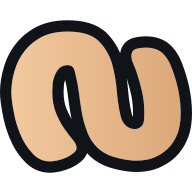
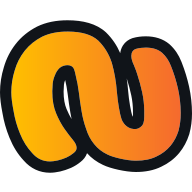
fix: refinements

diff --git a/src/styles/tokens/semantic.css b/src/styles/tokens/semantic.css
@@ -7,23 +7,23 @@
   --color-surface-1: light-dark(var(--p-neutral-1), var(--p-neutral-4));
   --color-surface-2: light-dark(var(--p-neutral-2), var(--p-neutral-3));
 
-  --color-accent: light-dark(var(--p-orange-1), var(--p-orange-0));
-  --color-link: light-dark(var(--p-green-2), var(--p-green-1));
+  --color-accent: light-dark(var(--p-orange-2), var(--p-yellow-0));
+  --color-link: light-dark(var(--p-orange-2), var(--p-orange-1));
   --color-title: var(--color-text-0);
-  --color-heading: var(--p-orange-0);
-  --color-button: light-dark(var(--p-orange-1), var(--p-orange-0));
-  --color-glyph: light-dark(var(--p-green-2), var(--p-orange-0));
+  --color-heading: var(--p-yellow-0);
+  --color-button: light-dark(var(--p-orange-2), var(--p-orange-1));
+  --color-glyph: light-dark(var(--p-orange-2), var(--p-yellow-0));
   --color-interactive: var(--color-glyph);
   --color-divider: var(--color-surface-2);
-  --color-canvas: light-dark(var(--p-green-2), var(--p-orange-0));
+  --color-canvas: light-dark(var(--p-orange-2), var(--p-yellow-0));
   --color-glow: hsl(from var(--color-accent) h s l / var(--opacity-background-glow));
 
-  --color-code-inline: light-dark(var(--p-orange-2), var(--p-orange-0));
+  --color-code-inline: light-dark(var(--p-orange-2), var(--p-yellow-0));
   --color-code-default: var(--p-neutral-0);
   --color-code-muted: var(--p-neutral-2);
-  --color-code-primary: var(--p-orange-0);
+  --color-code-primary: var(--p-yellow-0);
   --color-code-secondary: var(--p-green-0);
-  --color-code-tertiary: var(--p-yellow-0);
+  --color-code-tertiary: var(--p-orange-0);
   --color-code-bg: var(--p-neutral-4);
 
   /** FONT-FAMILIES */

diff --git a/src/styles/tokens/primitives.css b/src/styles/tokens/primitives.css
@@ -1,20 +1,20 @@
 :root {
   /** NEUTRAL */
-  --p-neutral-0: hsl(215, 24%, 98%);
-  --p-neutral-1: hsl(215, 24%, 92%);
-  --p-neutral-2: hsl(215, 18%, 78%);
-  --p-neutral-3: hsl(215, 18%, 36%);
-  --p-neutral-4: hsl(215, 18%, 22%);
-  --p-neutral-5: hsl(215, 18%, 8%);
+  --p-neutral-0: hsl(40, 14%, 98%);
+  --p-neutral-1: hsl(40, 12%, 92%);
+  --p-neutral-2: hsl(38, 9%, 78%);
+  --p-neutral-3: hsl(220, 4%, 34%);
+  --p-neutral-4: hsl(220, 5%, 18%);
+  --p-neutral-5: hsl(220, 6%, 8%);
 
   /** BRAND COLORS */
-  --p-orange-0: #f2c89d;
-  --p-orange-1: #dca87a;
-  --p-orange-2: #f55d2e;
+  --p-orange-0: #f2bf9d;
+  --p-orange-1: #dc9e7a;
+  --p-orange-2: #f56a2e;
   --p-green-0: #55e3be;
   --p-green-1: #25ac89;
   --p-green-2: #1c756a;
-  --p-yellow-0: #ffd27f;
+  --p-yellow-0: #ffbf00;
 
   /** BREAKPOINTS (1.33 scale) */
   --p-bp-scale: 1.33;

diff --git a/src/styles/components/specific/callout.css b/src/styles/components/specific/callout.css
@@ -1,6 +1,6 @@
 .callout {
   --callout-bg: var(--color-accent);
-  --callout-text: var(--color-surface-0);
+  --callout-text: light-dark(var(--color-text-0), var(--color-surface-0));
   --callout-label-offset: -0.675em; /* optical: lift label onto the top edge */
   --callout-label-padding: 0 6px;
 

diff --git a/src/styles/components/primitives/section-header.css b/src/styles/components/primitives/section-header.css
@@ -1,5 +1,5 @@
 .section-header {
-  --header-opacity: light-dark(1, var(--opacity-effect));
+  --header-opacity: light-dark(0.6, var(--opacity-effect));
 
   font-size: var(--size-subheader);
   text-decoration: underline;
